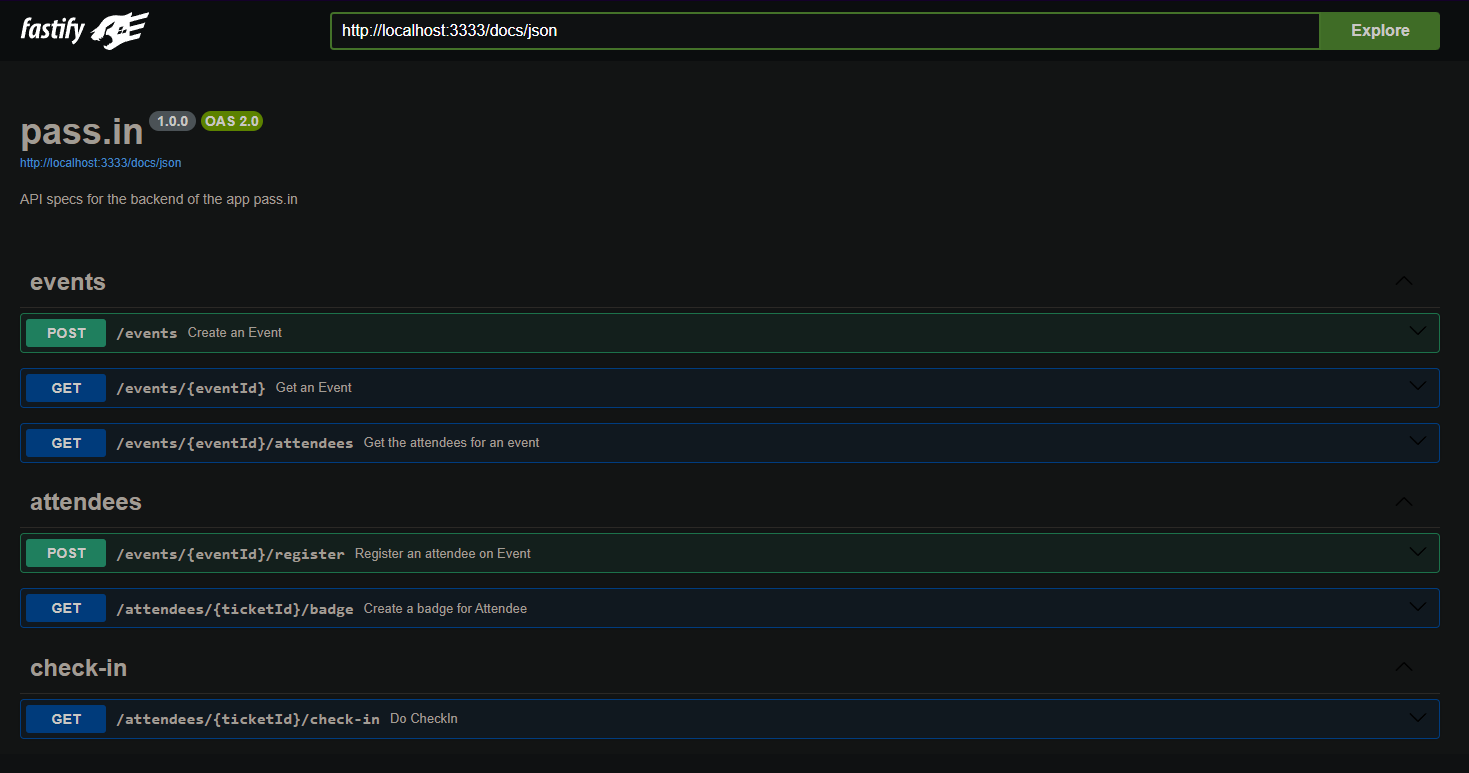
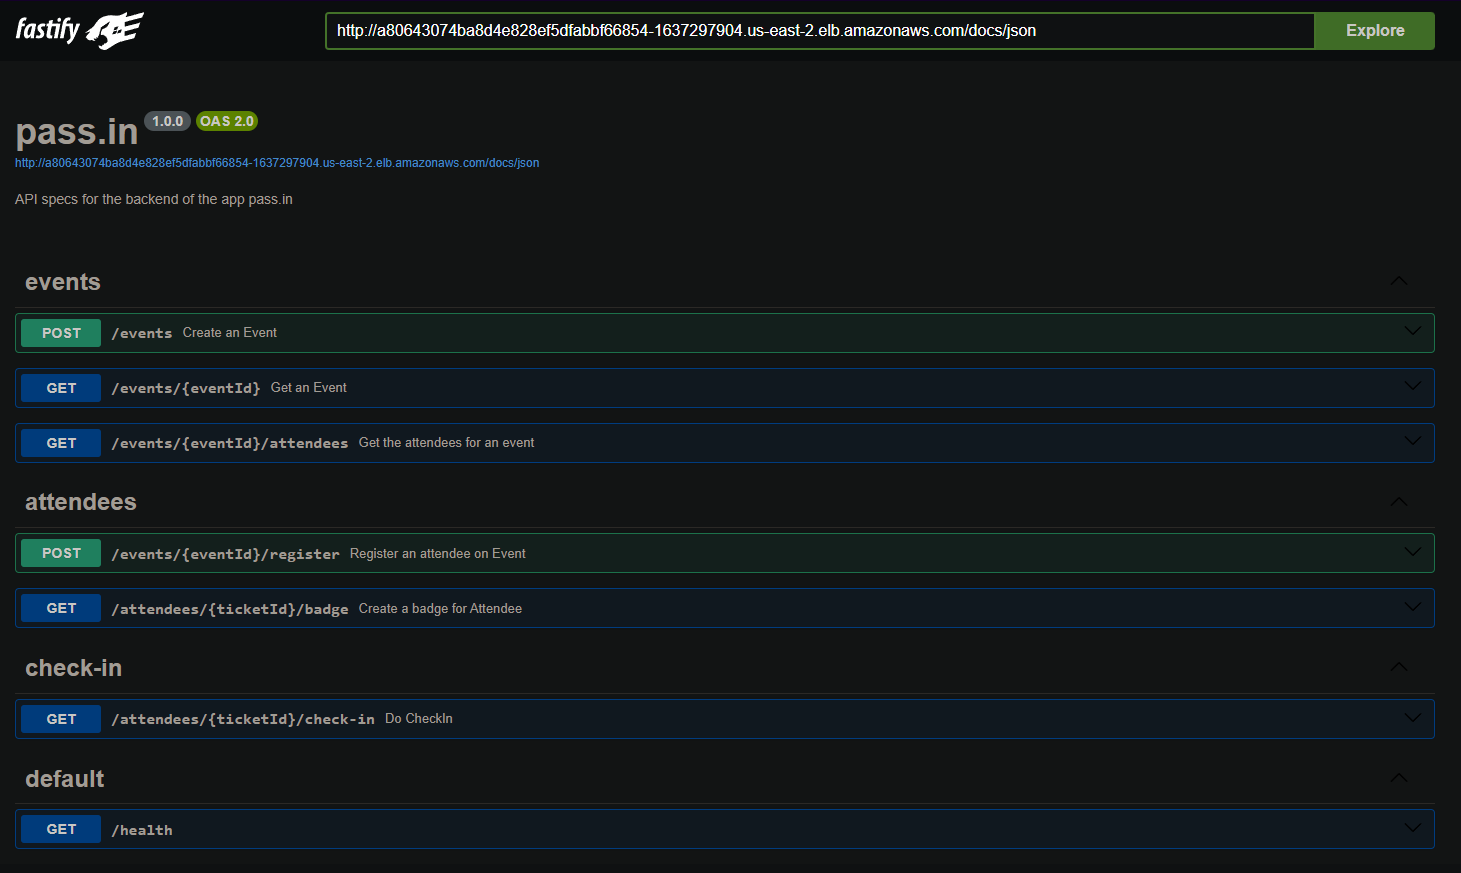
docs: updating docs to add devops section

diff --git a/README.md b/README.md
@@ -21,6 +21,7 @@
 - **[Requirements](#requirements)**
 - **[Project Structure](#project_structure_en)**
 - **[Technologies](#built_using_en)**
+- **[Devops](#devops)**
 
 ## 📚 About <a name = "about_en"></a>
 
@@ -296,3 +297,207 @@ The project structure is as follows:
 - [x] [Swagger](https://swagger.io/) - API documentation
 - [x] [nanoid](https://github.com/ai/nanoid) - Unique ID generation
 - [x] [fastify-type-provider-zod](https://github.com/fastify/fastify-type-provider-zod) - Request validation
+- [x] [Terraform](https://www.terraform.io/) - Infrastructure as Code (IaC) tool for building, changing, and versioning infrastructure
+- [x] [Kubernetes (k8s)](https://kubernetes.io/) - Container orchestration platform for automating deployment, scaling, and management of containerized applications
+- [x] [Helm](https://helm.sh/) - Package manager for Kubernetes, used to define, install, and manage applications on Kubernetes
+- [x] [Argo CD](https://argo-cd.readthedocs.io/en/stable/) - Declarative, GitOps continuous delivery tool for Kubernetes
+- [x] [AWS EKS](https://aws.amazon.com/eks/) - Amazon Elastic Kubernetes Service, a managed Kubernetes service provided by AWS
+- [x] [New Relic](https://newrelic.com/) - Application performance monitoring (APM) tool for monitoring and troubleshooting applications and infrastructure
+- [x] [DigitalOcean](https://www.digitalocean.com/) - Cloud infrastructure provider offering droplets (virtual private servers), managed databases, and more
+- [x] [GitHub Actions](https://github.com/features/actions) - Continuous Integration/Continuous Deployment (CI/CD) tool provided by GitHub
+
+## 🛠 Devops <a name = "devops"></a>
+
+This part will be a set of commands to run to assure that the pipelines are running properly
+
+<details>
+<summary>Terraform</summary>
+
+## Terraform
+
+### Source Code
+
+[digital ocean database](/devops/terraform/)
+
+### Commands
+
+- terraform init
+- terraform fmt
+- terraform plan
+- terraform apply -auto-approve
+- terraform plan --destroy
+
+### Useful Links
+
+- [Terraform Registry](https://registry.terraform.io/)
+- [Terraform digitalocean_database_cluster](https://registry.terraform.io/providers/digitalocean/digitalocean/latest/docs/resources/database_cluster)
+- [digitalocean_database_db](https://registry.terraform.io/providers/digitalocean/digitalocean/latest/docs/resources/database_db) <-
+
+</details>
+
+<details>
+<summary>K8S</summary>
+
+## Kubernetes (k8s)
+
+### Source Code
+
+[namespace test](/devops/k8s-example-with-nginx/)
+
+[namespace nlw](/devops/k8s/)
+
+### Commands
+
+#### Cluster
+
+- k3d cluster create unite --servers 2
+- kubectl cluster-info
+
+#### Info
+
+- kubectl get nodes
+- kubectl get pods
+- kubectl get pods -n passin
+- kubectl get pods -n kube-system
+
+#### Namespace test
+
+- kubectl create ns test
+- kubectl get pods -n test
+- kubectl apply -f k8s-test/deployment.yaml -n test
+- kubectl get deployment -n test
+- kubectl get pods -n test
+- kubectl get replicaset -n test
+- kubectl port-forward pod/[pod-name] -n test 3333:80
+- kubectl apply -f k8s-test -n test
+- kubectl get service -n test
+- kubectl port-forward svc/nginx-service -n test 3333:80
+
+#### Namespace passin
+
+- kubectl create ns passin
+- kubectl apply -f k8s -n passin
+- kubectl get deployment -n passin
+- watch kubectl get pods -n passin
+- kubectl logs [pod-name] -n passin
+- kubectl top pods -n passin
+- kubectl top nodes -n passin
+- kubectl port-forward svc/passin-service -n test 3333:3001
+- kubectl apply -f k8s -n passin
+- kubectl get pods -n passin
+
+</details>
+
+<details>
+<summary>Helm</summary>
+
+## Helm
+
+### Commands
+
+- helm create deploy
+
+### Source Code
+
+[Generated by helm create deploy](/devops/deploy/)
+
+### Continuation Commands
+
+#### Base (inside the deploy folder)
+
+- kubectl create ns passin-helm
+- helm upgrade --install passin ./deploy -n passin-helm
+- kubectl get pods -n passin-helm
+- helm list -n passin-helm
+- kubectl logs [pod-name] -n passin-helm
+
+#### Argo CD
+
+- kubectl create namespace argocd
+- kubectl apply -n argocd -f https://raw.githubusercontent.com/argoproj/argo-cd/stable/manifests/install.yaml
+- kubectl get svc -n argocd
+- kubectl port-forward svc/argocd-server -n argocd 3001:80
+- kubectl -n argocd get secret argocd-initial-admin-secret -o jsonpath="{.data.password}" | base64 -d
+- [browser] http://localhost:3001 user:admin password:[secret returned above]
+
+#### Source Code
+
+[cross](/devops/cross/apps/passin/)
+
+#### Argo CD continuation (inside the cross folder)
+
+- kubectl apply -n argocd -f apps/passin
+- [browser] http://localhost:3001
+- kubectl delete -n passin
+- kubectl delete -n passin-helm
+- kubectl create ns passin
+- kubectl port-forward svc/argocd-server -n argocd 3001:80
+- [browser] http://localhost:3001
+- watch kubectl get pods -n passin
+- kubectl port-forward svc/passin-deploy -n passin 3333:80
+- [browser] http://localhost:3333/docs
+
+#### Adding health endpoint
+
+- kubectl port-forward svc/passin-deploy -n passin 3333:80
+- [browser] http://localhost:3333/health
+
+</details>
+
+<details>
+<summary>AWS EKS</summary>
+
+### AWS EKS
+
+#### Commands (cross folder)
+
+- aws configure sso
+- aws eks --region us-east-2 update-kubeconfig --name passin-eks
+- kubectl get pods -n kube-system
+- kubectl create namespace argocd
+- kubectl apply -n argocd -f https://raw.githubusercontent.com/argoproj/argo-cd/stable/manifests/install.yaml
+- kubectl apply -n argocd -f apps/passin
+- kubectl port-forward svc/argocd-server -n argocd 3001:80
+- kubectl -n argocd get secret argocd-initial-admin-secret -o jsonpath="{.data.password}" | base64 -d
+- [browser] http://localhost:3001 user:admin password:[secret returned above]
+- kubectl create ns passin
+- [browser] http://localhost:3001 sync
+- watch kubectl get pods -n passin
+- add load balancer git commit
+- kubectl port-forward svc/argocd-server -n argocd 3001:80
+- [browser] http://localhost:3001 sync
+- watch kubectl get pods -n passin
+- kubectl get svc -n passin
+- [browser] [external ip]/docs
+- [browser] [external ip]/health
+
+</details>
+
+<details>
+<summary>New Relic</summary>
+
+### New Relic
+
+- New Relic Dashboard
+- All Entities -> Kubernetes -> Helm -> Create a new key -> Continue
+- Fill cluster name -> Continue
+- Keep -> Continue
+- Keep -> Continue
+- -> Copy to clipboard
+- Paste and run in terminal
+- [browser] http://localhost:3001 sync
+- -> Continue
+- -> Test connection
+- -> See your data
+- -> [cluster name]
+- Summary
+- Overview Dashboard
+- Control Plane
+
+</details>
+
+### Useful Links
+
+- [Argo CD Docs](https://argo-cd.readthedocs.io/en/stable)
+- [New Relic](https://newrelic.com/welcome-back)
+- [New Relic Dashboard](https://one.newrelic.com)
